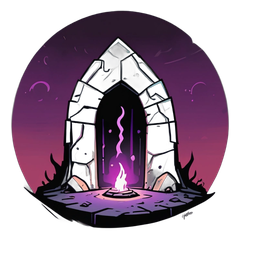
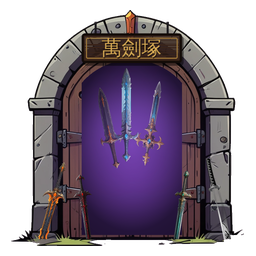
만검총 relic redesign: tomb gate with a 萬劍塚 plaque and swords planted before it; the opened relic shows the doors open on a violet glow with floating swords
Claude-Session: https://claude.ai/code/session_01XrBwXBqX3owjaJbW5W7iUD

diff --git a/MagicSwordsman/tools/relic_art/compose_mangeomchong.py b/MagicSwordsman/tools/relic_art/compose_mangeomchong.py
@@ -1,0 +1,65 @@
+import sys
+from PIL import Image, ImageDraw, ImageFont, ImageFilter, ImageChops
+import numpy as np
+SW='/home/user/Sts2/MagicSwordsman/MagicSwordsman/images/swords/'
+base=Image.open('raw2/closed0.webp').convert('RGBA'); W,H=base.size
+def sword(name,h,rot,tip_down=True):
+    s=Image.open(SW+name+'.png').convert('RGBA'); s=s.crop(s.getbbox())
+    if tip_down: s=s.rotate(180)
+    sc=h/s.height; s=s.resize((max(1,round(s.width*sc)),h),Image.LANCZOS)
+    if tip_down: pass
+    return s.rotate(rot,expand=True,resample=Image.BICUBIC)
+def stick(img,name,cx,ground,h,rot,sink=0.22):
+    s=sword(name,h,rot,True); w,hh=s.size
+    cut=s.crop((0,0,w,int(hh*(1-sink))))  # the buried part is cut off
+    # a darker ground line where it enters the earth
+    img.alpha_composite(cut,(cx-w//2,ground-cut.height))
+def plaque(img,y0=96):
+    f=ImageFont.truetype('/usr/share/fonts/truetype/wqy/wqy-zenhei.ttc',60)
+    pl=Image.new('RGBA',img.size,(0,0,0,0)); d=ImageDraw.Draw(pl)
+    x0,x1,y1=W//2-150,W//2+150,y0+88
+    for cx in (x0+42,x1-42): d.line([(cx,y0+4),(cx,y0-34)],fill=(28,26,30,255),width=6)
+    d.rounded_rectangle((x0+5,y0+8,x1+5,y1+8),9,fill=(0,0,0,120))
+    d.rounded_rectangle((x0,y0,x1,y1),9,fill=(58,36,26,255),outline=(20,12,8,255),width=7)
+    # wood grain + worn edges
+    rng=np.random.default_rng(3)
+    for i in range(26):
+        yy=rng.integers(y0+10,y1-10); d.line([(x0+10,yy),(x1-10,yy+rng.integers(-3,4))],fill=(44,27,20,140),width=int(rng.integers(1,3)))
+    d.rounded_rectangle((x0+13,y0+13,x1-13,y1-13),5,outline=(170,128,60,255),width=3)
+    txt='萬劍塚'; bb=d.textbbox((0,0),txt,font=f); tw,th=bb[2]-bb[0],bb[3]-bb[1]
+    d.text(((x0+x1-tw)//2-bb[0]+2,(y0+y1-th)//2-bb[1]+3),txt,font=f,fill=(20,12,8,200))
+    d.text(((x0+x1-tw)//2-bb[0],(y0+y1-th)//2-bb[1]),txt,font=f,fill=(214,170,84,255))
+    pl=pl.filter(ImageFilter.GaussianBlur(0.6))
+    img.alpha_composite(pl)
+def glow(img,cx,cy,rx,ry,col,a):
+    g=Image.new('RGBA',img.size,(0,0,0,0)); d=ImageDraw.Draw(g)
+    d.ellipse((cx-rx,cy-ry,cx+rx,cy+ry),fill=col+(a,)); g=g.filter(ImageFilter.GaussianBlur(max(rx,ry)*0.45))
+    img.alpha_composite(g)
+mode=sys.argv[1]
+img=base.copy()
+# remove the AI signature in the bottom-right corner
+ImageDraw.Draw(img).rectangle((660,700,768,768),fill=img.getpixel((740,600)))
+if mode=='open':
+    # the doors swing inward: the doorway becomes a dark violet glow with swords floating inside
+    a=np.array(img).astype(int); r,g,b=a[...,0],a[...,1],a[...,2]
+    yy,xx=np.mgrid[0:H,0:W]
+    cx,top=W//2,175; rad=190
+    inside=((xx-cx)**2/(195**2)+(yy-(top+rad))**2/(rad**2)<=1)|((abs(xx-cx)<195)&(yy>top+rad)&(yy<700))
+    leaf=(abs(xx-cx)>150)  # the two door leaves, seen edge-on at the sides
+    hole=inside&~leaf
+    t=np.clip(1-np.hypot((xx-cx)/190,(yy-430)/260),0,1)
+    a[hole,0]=(30+120*t[hole]).astype(int); a[hole,1]=(16+60*t[hole]).astype(int); a[hole,2]=(48+170*t[hole]).astype(int)
+    img=Image.fromarray(a.clip(0,255).astype('uint8'))
+    for n,x,y,h,rot in (('gram',cx-70,250,250,12),('durandal',cx+70,230,260,-10),('skofnung',cx,200,280,0)):
+        s=sword(n,h,rot,False); 
+        sh=s.copy(); sh.putalpha(s.getchannel('A').point(lambda v:v*0.9))
+        glow(img,x,y+h//2,70,h//2,(170,110,255),120); img.alpha_composite(s,(x-s.width//2,y))
+    glow(img,cx,450,230,260,(160,100,255),70)
+else:
+    for wd,bl,col in ((46,22,(170,110,255,170)),(10,4,(200,150,255,230)),(3,1,(245,230,255,255))):
+        g=Image.new('RGBA',img.size,(0,0,0,0)); ImageDraw.Draw(g).line([(W//2,190),(W//2,690)],fill=col,width=wd)
+        img.alpha_composite(g.filter(ImageFilter.GaussianBlur(bl)))  # light from the gap between the doors
+for n,x,h,rot in (('tyrfing',140,300,-16),('onimaru',630,310,14),('dainsleif',245,250,8),('kusanagi',530,260,-9)):
+    stick(img,n,x,712,h,rot)
+plaque(img)
+img.convert('RGB').save(f'final_{mode}.png')

diff --git a/docs/card-art-credits.md b/docs/card-art-credits.md
@@ -393,3 +393,7 @@ All 140 existing card portraits were regenerated with more varied subjects (swor
 ## Side-view combat body (2026-10-09)
 
 The combat rig parts (`images/character/parts/*`) and `images/character/magic_swordsman.png` now come from a new side-view body whose head is turned toward the enemies (user feedback: the previous body looked at the viewer). AI Horde, AlbedoBase XL (SDXL), img2img (denoise 0.62) from the previous body; background removed with rembg (isnet-general-use); painted smoke removed and parts split by `tools/split_body.py`.
+
+## 만검총 relic (2026-10-09)
+
+`images/relics/{mangeomchong,opened_mangeomchong}.png` (+ `_outline`, `big/`): a tomb gate in a stone arch generated with AI Horde (AlbedoBase XL, txt2img, then img2img denoise 0.5), composited in `tools/relic_art/compose_mangeomchong.py`: the 萬劍塚 plaque is drawn with WenQuanYi Zen Hei; the swords planted in front and floating in the open doorway are the mod's own sword sprites (`images/swords/`); the light seam and the violet doorway are drawn. Background removed with rembg.
